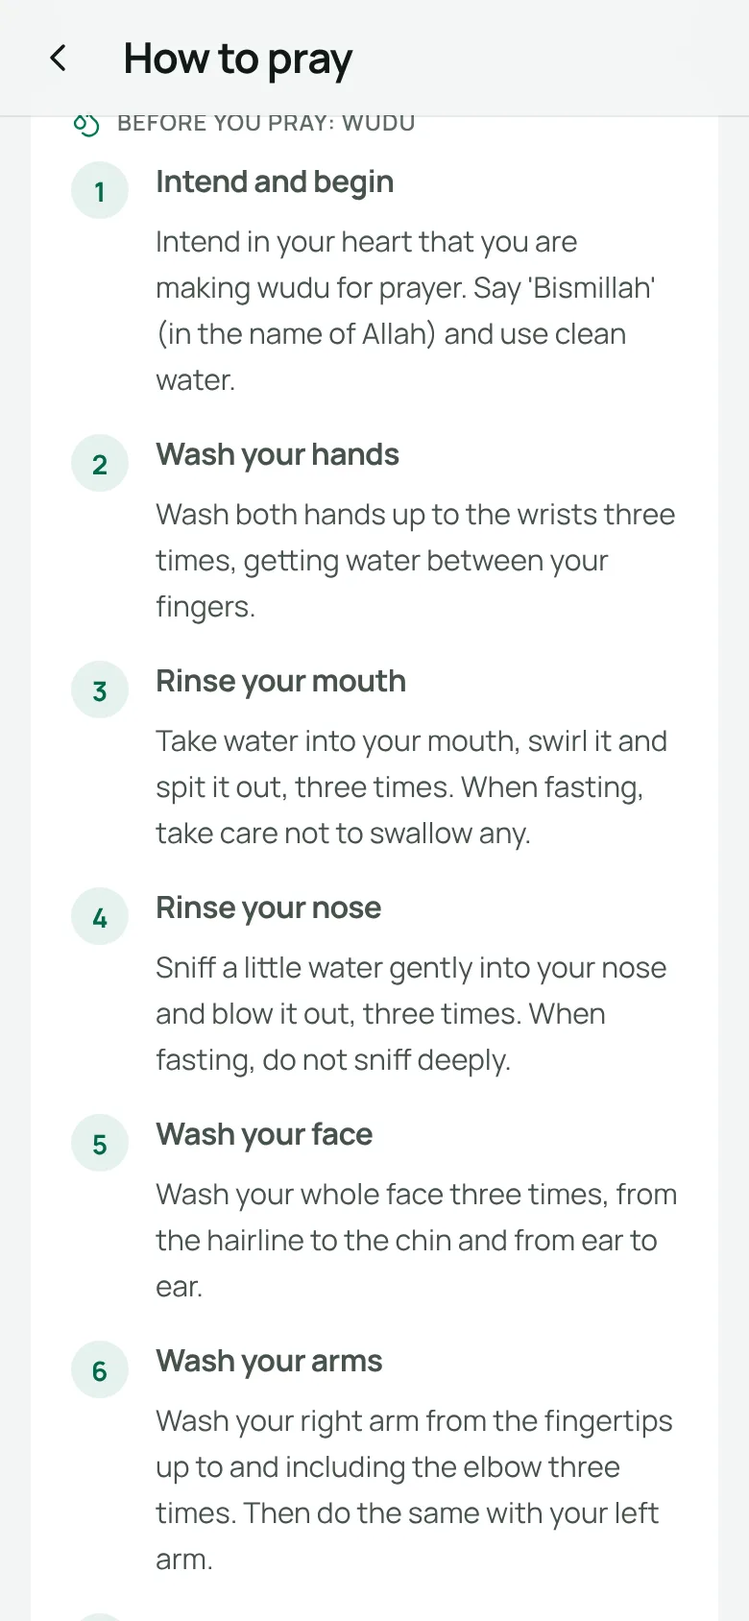
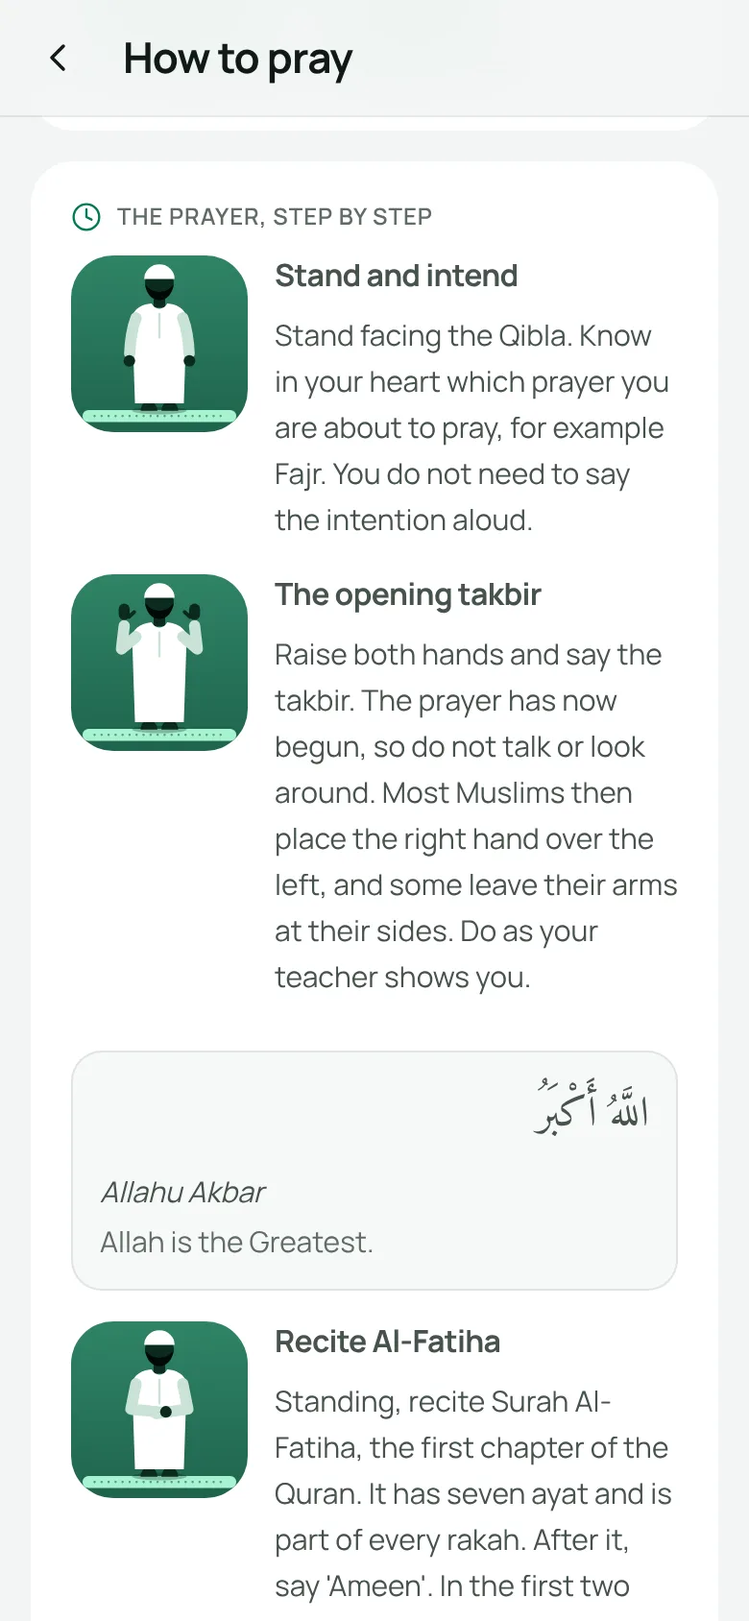
How to pray: a drawn picture of a man in each position replaces the stick figures
Each of the twelve steps now shows a man in a thobe and cap in that position: standing,
the opening takbir, reciting with the right hand over the left, bowing, standing up,
prostrating, sitting, the tashahhud with the forefinger pointing, and the salam. The
pictures are drawn as plain shapes in the app's greens (no face is drawn), keep one
size and scale, work in light and dark, and are not mirrored in right-to-left languages
so that right stays right. The picture sits beside what to do; the words to say now get
the full width underneath. The product page's screenshots and list follow.

Claude-Session: https://claude.ai/code/session_01NK5Fw2fU79LqByGdNvRg5Q

diff --git a/js/start-data.js b/js/start-data.js
@@ -1,3 +1,3 @@
 /* Generated by scripts/build-start.js from content/start.json. Do not edit by hand. */
 window.RS = window.RS || {};
-RS.startData = {"guide":[{"id":"what","icon":"moon","n":3,"refs":[{"ref":"Quran 2:183","url":"https://quran.com/2/183"},{"ref":"Quran 2:185","url":"https://quran.com/2/185"},{"ref":"Bukhari 8","url":"https://sunnah.com/bukhari:8"},{"ref":"Bukhari 1901","url":"https://sunnah.com/bukhari:1901"}]},{"id":"who","icon":"users","n":4,"refs":[{"ref":"Quran 2:184","url":"https://quran.com/2/184"},{"ref":"Muslim 121","url":"https://sunnah.com/muslim:121"},{"ref":"Muslim 335","url":"https://sunnah.com/muslim:335"},{"ref":"Tirmidhi 715","url":"https://sunnah.com/tirmidhi:715"},{"ref":"Bukhari 4505","url":"https://sunnah.com/bukhari:4505"},{"ref":"Abu Dawud 4403","url":"https://sunnah.com/abudawud:4403"},{"ref":"Bukhari 1960","url":"https://sunnah.com/bukhari:1960"}]},{"id":"day","icon":"sunrise","n":4,"refs":[{"ref":"Bukhari 1923","url":"https://sunnah.com/bukhari:1923"},{"ref":"Abu Dawud 2454","url":"https://sunnah.com/abudawud:2454"},{"ref":"Quran 2:187","url":"https://quran.com/2/187"},{"ref":"Bukhari 1957","url":"https://sunnah.com/bukhari:1957"},{"ref":"Abu Dawud 2356","url":"https://sunnah.com/abudawud:2356"},{"ref":"Abu Dawud 2357","url":"https://sunnah.com/abudawud:2357"}]},{"id":"breaks","icon":"shield","n":5,"refs":[{"ref":"Quran 2:187","url":"https://quran.com/2/187"},{"ref":"Tirmidhi 720","url":"https://sunnah.com/tirmidhi:720"},{"ref":"Muslim 335","url":"https://sunnah.com/muslim:335"},{"ref":"Bukhari 1933","url":"https://sunnah.com/bukhari:1933"},{"ref":"Bukhari 1926","url":"https://sunnah.com/bukhari:1926"},{"ref":"Abu Dawud 2385","url":"https://sunnah.com/abudawud:2385"},{"ref":"Tirmidhi 788","url":"https://sunnah.com/tirmidhi:788"},{"ref":"Bukhari 1903","url":"https://sunnah.com/bukhari:1903"}]},{"id":"missed","icon":"calendar-check","n":3,"refs":[{"ref":"Quran 2:184","url":"https://quran.com/2/184"},{"ref":"Bukhari 1950","url":"https://sunnah.com/bukhari:1950"},{"ref":"Bukhari 1936","url":"https://sunnah.com/bukhari:1936"}]},{"id":"prayers","icon":"clock","n":3,"refs":[{"ref":"Bukhari 6502","url":"https://sunnah.com/bukhari:6502"},{"ref":"Bukhari 37","url":"https://sunnah.com/bukhari:37"},{"ref":"Tirmidhi 806","url":"https://sunnah.com/tirmidhi:806"}]},{"id":"quran","icon":"book-open","n":3,"refs":[{"ref":"Quran 2:185","url":"https://quran.com/2/185"},{"ref":"Bukhari 6","url":"https://sunnah.com/bukhari:6"},{"ref":"Bukhari 4937","url":"https://sunnah.com/bukhari:4937"}]},{"id":"last-ten","icon":"moon-star","n":4,"refs":[{"ref":"Bukhari 2024","url":"https://sunnah.com/bukhari:2024"},{"ref":"Quran 97:3","url":"https://quran.com/97/3"},{"ref":"Bukhari 2017","url":"https://sunnah.com/bukhari:2017"},{"ref":"Bukhari 1901","url":"https://sunnah.com/bukhari:1901"},{"ref":"Ibn Majah 3850","url":"https://sunnah.com/ibnmajah:3850"}]},{"id":"charity","icon":"hand-heart","n":3,"refs":[{"ref":"Bukhari 6","url":"https://sunnah.com/bukhari:6"},{"ref":"Tirmidhi 807","url":"https://sunnah.com/tirmidhi:807"},{"ref":"Bukhari 1503","url":"https://sunnah.com/bukhari:1503"},{"ref":"Bukhari 1990","url":"https://sunnah.com/bukhari:1990"},{"ref":"Bukhari 953","url":"https://sunnah.com/bukhari:953"},{"ref":"Quran 2:185","url":"https://quran.com/2/185"}]},{"id":"family","icon":"heart","n":4,"refs":[{"ref":"Quran 31:15","url":"https://quran.com/31/15"},{"ref":"Bukhari 2620","url":"https://sunnah.com/bukhari:2620"},{"ref":"Bukhari 1904","url":"https://sunnah.com/bukhari:1904"}]},{"id":"mosque","icon":"landmark","n":4,"refs":[{"ref":"Bukhari 444","url":"https://sunnah.com/bukhari:444"},{"ref":"Tirmidhi 807","url":"https://sunnah.com/tirmidhi:807"}]},{"id":"gentle","icon":"sprout","n":3,"refs":[{"ref":"Bukhari 6464","url":"https://sunnah.com/bukhari:6464"},{"ref":"Bukhari 39","url":"https://sunnah.com/bukhari:39"},{"ref":"Quran 2:286","url":"https://quran.com/2/286"},{"ref":"Quran 2:185","url":"https://quran.com/2/185"}]}],"pray":{"intro":4,"wudu":["w1","w2","w3","w4","w5","w6","w7","w8","w9"],"wuduRefs":[{"ref":"Quran 5:6","url":"https://quran.com/5/6"},{"ref":"Bukhari 159","url":"https://sunnah.com/bukhari:159"},{"ref":"Muslim 226","url":"https://sunnah.com/muslim:226"},{"ref":"Tirmidhi 36","url":"https://sunnah.com/tirmidhi:36"},{"ref":"Tirmidhi 788","url":"https://sunnah.com/tirmidhi:788"},{"ref":"Bukhari 135","url":"https://sunnah.com/bukhari:135"}],"steps":[{"id":"p1","pose":"stand","arabic":"","translit":""},{"id":"p2","pose":"hands","arabic":"اللَّهُ أَكْبَرُ","translit":"Allahu Akbar"},{"id":"p3","pose":"stand","arabic":"بِسْمِ اللَّهِ الرَّحْمَٰنِ الرَّحِيمِ  الْحَمْدُ لِلَّهِ رَبِّ الْعَالَمِينَ  الرَّحْمَٰنِ الرَّحِيمِ  مَالِكِ يَوْمِ الدِّينِ  إِيَّاكَ نَعْبُدُ وَإِيَّاكَ نَسْتَعِينُ  اهْدِنَا الصِّرَاطَ الْمُسْتَقِيمَ  صِرَاطَ الَّذِينَ أَنْعَمْتَ عَلَيْهِمْ غَيْرِ الْمَغْضُوبِ عَلَيْهِمْ وَلَا الضَّالِّينَ","translit":"Bismillahir-Rahmanir-Rahim. Al-hamdu lillahi Rabbil-'alamin. Ar-Rahmanir-Rahim. Maliki yawmid-din. Iyyaka na'budu wa iyyaka nasta'in. Ihdinas-siratal-mustaqim. Siratal-ladhina an'amta 'alayhim, ghayril-maghdubi 'alayhim wa lad-dallin."},{"id":"p4","pose":"ruku","arabic":"سُبْحَانَ رَبِّيَ الْعَظِيمِ","translit":"Subhana Rabbiyal-'Azim"},{"id":"p5","pose":"rise","arabic":"سَمِعَ اللَّهُ لِمَنْ حَمِدَهُ، رَبَّنَا لَكَ الْحَمْدُ","translit":"Sami'Allahu liman hamidah. Rabbana lakal-hamd."},{"id":"p6","pose":"sujood","arabic":"سُبْحَانَ رَبِّيَ الْأَعْلَى","translit":"Subhana Rabbiyal-A'la"},{"id":"p7","pose":"sit","arabic":"رَبِّ اغْفِرْ لِي","translit":"Rabbighfir li"},{"id":"p8","pose":"sujood","arabic":"سُبْحَانَ رَبِّيَ الْأَعْلَى","translit":"Subhana Rabbiyal-A'la"},{"id":"p9","pose":"stand","arabic":"","translit":""},{"id":"p10","pose":"sit","arabic":"التَّحِيَّاتُ لِلَّهِ وَالصَّلَوَاتُ وَالطَّيِّبَاتُ، السَّلَامُ عَلَيْكَ أَيُّهَا النَّبِيُّ وَرَحْمَةُ اللَّهِ وَبَرَكَاتُهُ، السَّلَامُ عَلَيْنَا وَعَلَى عِبَادِ اللَّهِ الصَّالِحِينَ، أَشْهَدُ أَنْ لَا إِلَهَ إِلَّا اللَّهُ، وَأَشْهَدُ أَنَّ مُحَمَّدًا عَبْدُهُ وَرَسُولُهُ","translit":"At-tahiyyatu lillahi was-salawatu wat-tayyibat. As-salamu 'alayka ayyuhan-Nabiyyu wa rahmatullahi wa barakatuh. As-salamu 'alayna wa 'ala 'ibadillahis-salihin. Ash-hadu an la ilaha illallah, wa ash-hadu anna Muhammadan 'abduhu wa rasuluh."},{"id":"p11","pose":"sit","arabic":"اللَّهُمَّ صَلِّ عَلَى مُحَمَّدٍ وَعَلَى آلِ مُحَمَّدٍ، كَمَا صَلَّيْتَ عَلَى إِبْرَاهِيمَ وَعَلَى آلِ إِبْرَاهِيمَ، إِنَّكَ حَمِيدٌ مَجِيدٌ، اللَّهُمَّ بَارِكْ عَلَى مُحَمَّدٍ وَعَلَى آلِ مُحَمَّدٍ، كَمَا بَارَكْتَ عَلَى إِبْرَاهِيمَ وَعَلَى آلِ إِبْرَاهِيمَ، إِنَّكَ حَمِيدٌ مَجِيدٌ","translit":"Allahumma salli 'ala Muhammadin wa 'ala ali Muhammad, kama sallayta 'ala Ibrahima wa 'ala ali Ibrahim, innaka Hamidun Majid. Allahumma barik 'ala Muhammadin wa 'ala ali Muhammad, kama barakta 'ala Ibrahima wa 'ala ali Ibrahim, innaka Hamidun Majid."},{"id":"p12","pose":"salam","arabic":"السَّلَامُ عَلَيْكُمْ وَرَحْمَةُ اللَّهِ","translit":"As-salamu 'alaykum wa rahmatullah"}],"refs":[{"ref":"Bukhari 8","url":"https://sunnah.com/bukhari:8"},{"ref":"Quran 4:103","url":"https://quran.com/4/103"},{"ref":"Quran 2:144","url":"https://quran.com/2/144"},{"ref":"Bukhari 631","url":"https://sunnah.com/bukhari:631"},{"ref":"Muslim 335","url":"https://sunnah.com/muslim:335"},{"ref":"Bukhari 757","url":"https://sunnah.com/bukhari:757"},{"ref":"Quran 1:1-7","url":"https://quran.com/1/1-7"},{"ref":"Bukhari 756","url":"https://sunnah.com/bukhari:756"},{"ref":"Bukhari 789","url":"https://sunnah.com/bukhari:789"},{"ref":"Muslim 772","url":"https://sunnah.com/muslim:772"},{"ref":"Bukhari 812","url":"https://sunnah.com/bukhari:812"},{"ref":"Ibn Majah 897","url":"https://sunnah.com/ibnmajah:897"},{"ref":"Bukhari 776","url":"https://sunnah.com/bukhari:776"},{"ref":"Bukhari 831","url":"https://sunnah.com/bukhari:831"},{"ref":"Bukhari 3370","url":"https://sunnah.com/bukhari:3370"},{"ref":"Abu Dawud 996","url":"https://sunnah.com/abudawud:996"}]},"terms":["suhoor","iftar","salah","fajr","dhuhr","asr","maghrib","isha","wudu","rakah","qibla","ruku","sujood","sunnah","witr","tarawih","tahajjud","duha","dua","dhikr","adhkar","istighfar","salawat","tadabbur","khatm","juz","taqwa","ikhlas","riya","muhasaba","gheebah","sadaqah","zakat-al-fitr","qada","fidya","hayd","laylatul-qadr","itikaf","hilal","eid-al-fitr"],"stories":[{"n":1,"ref":"Quran 2:30-37","url":"https://quran.com/2/30-37"},{"n":2,"ref":"Bukhari 2363","url":"https://sunnah.com/bukhari:2363"},{"n":3,"ref":"Quran 11:36-44","url":"https://quran.com/11/36-44"},{"n":4,"ref":"Muslim 2626; Bukhari 3035; Bukhari 2989","url":"https://sunnah.com/muslim:2626"},{"n":5,"ref":"Quran 21:57-70","url":"https://quran.com/21/57-70"},{"n":6,"ref":"Bukhari 3364","url":"https://sunnah.com/bukhari:3364"},{"n":7,"ref":"Quran 2:127-128","url":"https://quran.com/2/127-128"},{"n":8,"ref":"Bukhari 7","url":"https://sunnah.com/bukhari:7"},{"n":9,"ref":"Quran 12:4-21","url":"https://quran.com/12/4-21"},{"n":10,"ref":"Quran 12:54-58; Quran 12:88-100","url":"https://quran.com/12/88-100"},{"n":11,"ref":"Bukhari 5971","url":"https://sunnah.com/bukhari:5971"},{"n":12,"ref":"Quran 28:7-13","url":"https://quran.com/28/7-13"},{"n":13,"ref":"Quran 26:52-67","url":"https://quran.com/26/52-67"},{"n":14,"ref":"Bukhari 1461; Quran 3:92","url":"https://sunnah.com/bukhari:1461"},{"n":15,"ref":"Quran 21:87-88; Quran 37:139-148","url":"https://quran.com/21/87-88"},{"n":16,"ref":"Bukhari 3798; Muslim 2054; Quran 59:9","url":"https://sunnah.com/bukhari:3798"},{"n":17,"ref":"Quran 21:83-84; Quran 38:41-44","url":"https://quran.com/38/41-44"},{"n":18,"ref":"Bukhari 3231","url":"https://sunnah.com/bukhari:3231"},{"n":19,"ref":"Quran 27:16-19","url":"https://quran.com/27/16-19"},{"n":20,"ref":"Quran 18:9-25","url":"https://quran.com/18/9-25"},{"n":21,"ref":"Quran 31:12-19","url":"https://quran.com/31/12-19"},{"n":22,"ref":"Quran 3:35-37","url":"https://quran.com/3/35-37"},{"n":23,"ref":"Quran 19:21; Quran 19:27-33","url":"https://quran.com/19/27-33"},{"n":24,"ref":"Bukhari 6038; Bukhari 2768","url":"https://sunnah.com/bukhari:6038"},{"n":25,"ref":"Bukhari 3; Quran 96:1-5","url":"https://sunnah.com/bukhari:3"},{"n":26,"ref":"Bukhari 6","url":"https://sunnah.com/bukhari:6"},{"n":27,"ref":"Quran 97:1-5; Bukhari 2017","url":"https://quran.com/97/1-5"},{"n":28,"ref":"Bukhari 4837","url":"https://sunnah.com/bukhari:4837"},{"n":29,"ref":"Bukhari 652; Muslim 1914","url":"https://sunnah.com/bukhari:652"},{"n":30,"ref":"Quran 2:185; Bukhari 953; Bukhari 986","url":"https://quran.com/2/185"}],"easyTf":["tf002","tf003","tf005","tf009","tf010","tf011","tf-fast-01","tf-fast-03","tf-fast-05","tf-fast-08","tf-fast-11","tf018","tf024","tf-salah-08","tf-salah-09","tf-salah-15","tf025","tf029","tf031","tf033","tf-quran-03","tf-quran-04","tf-quran-10","tf-quran-11","tf-quran-12","tf035","tf036","tf041","tf042","tf043","tf046","tf047","tf053","tf054","tf-give-09","tf055","tf056","tf057","tf062","tf-give-02","tf-give-08","tf-give-10","tf-hist-01","tf-hist-02","tf-hist-04","tf-prep-11","tf-prep-12","tf-prep-13"]};
+RS.startData = {"guide":[{"id":"what","icon":"moon","n":3,"refs":[{"ref":"Quran 2:183","url":"https://quran.com/2/183"},{"ref":"Quran 2:185","url":"https://quran.com/2/185"},{"ref":"Bukhari 8","url":"https://sunnah.com/bukhari:8"},{"ref":"Bukhari 1901","url":"https://sunnah.com/bukhari:1901"}]},{"id":"who","icon":"users","n":4,"refs":[{"ref":"Quran 2:184","url":"https://quran.com/2/184"},{"ref":"Muslim 121","url":"https://sunnah.com/muslim:121"},{"ref":"Muslim 335","url":"https://sunnah.com/muslim:335"},{"ref":"Tirmidhi 715","url":"https://sunnah.com/tirmidhi:715"},{"ref":"Bukhari 4505","url":"https://sunnah.com/bukhari:4505"},{"ref":"Abu Dawud 4403","url":"https://sunnah.com/abudawud:4403"},{"ref":"Bukhari 1960","url":"https://sunnah.com/bukhari:1960"}]},{"id":"day","icon":"sunrise","n":4,"refs":[{"ref":"Bukhari 1923","url":"https://sunnah.com/bukhari:1923"},{"ref":"Abu Dawud 2454","url":"https://sunnah.com/abudawud:2454"},{"ref":"Quran 2:187","url":"https://quran.com/2/187"},{"ref":"Bukhari 1957","url":"https://sunnah.com/bukhari:1957"},{"ref":"Abu Dawud 2356","url":"https://sunnah.com/abudawud:2356"},{"ref":"Abu Dawud 2357","url":"https://sunnah.com/abudawud:2357"}]},{"id":"breaks","icon":"shield","n":5,"refs":[{"ref":"Quran 2:187","url":"https://quran.com/2/187"},{"ref":"Tirmidhi 720","url":"https://sunnah.com/tirmidhi:720"},{"ref":"Muslim 335","url":"https://sunnah.com/muslim:335"},{"ref":"Bukhari 1933","url":"https://sunnah.com/bukhari:1933"},{"ref":"Bukhari 1926","url":"https://sunnah.com/bukhari:1926"},{"ref":"Abu Dawud 2385","url":"https://sunnah.com/abudawud:2385"},{"ref":"Tirmidhi 788","url":"https://sunnah.com/tirmidhi:788"},{"ref":"Bukhari 1903","url":"https://sunnah.com/bukhari:1903"}]},{"id":"missed","icon":"calendar-check","n":3,"refs":[{"ref":"Quran 2:184","url":"https://quran.com/2/184"},{"ref":"Bukhari 1950","url":"https://sunnah.com/bukhari:1950"},{"ref":"Bukhari 1936","url":"https://sunnah.com/bukhari:1936"}]},{"id":"prayers","icon":"clock","n":3,"refs":[{"ref":"Bukhari 6502","url":"https://sunnah.com/bukhari:6502"},{"ref":"Bukhari 37","url":"https://sunnah.com/bukhari:37"},{"ref":"Tirmidhi 806","url":"https://sunnah.com/tirmidhi:806"}]},{"id":"quran","icon":"book-open","n":3,"refs":[{"ref":"Quran 2:185","url":"https://quran.com/2/185"},{"ref":"Bukhari 6","url":"https://sunnah.com/bukhari:6"},{"ref":"Bukhari 4937","url":"https://sunnah.com/bukhari:4937"}]},{"id":"last-ten","icon":"moon-star","n":4,"refs":[{"ref":"Bukhari 2024","url":"https://sunnah.com/bukhari:2024"},{"ref":"Quran 97:3","url":"https://quran.com/97/3"},{"ref":"Bukhari 2017","url":"https://sunnah.com/bukhari:2017"},{"ref":"Bukhari 1901","url":"https://sunnah.com/bukhari:1901"},{"ref":"Ibn Majah 3850","url":"https://sunnah.com/ibnmajah:3850"}]},{"id":"charity","icon":"hand-heart","n":3,"refs":[{"ref":"Bukhari 6","url":"https://sunnah.com/bukhari:6"},{"ref":"Tirmidhi 807","url":"https://sunnah.com/tirmidhi:807"},{"ref":"Bukhari 1503","url":"https://sunnah.com/bukhari:1503"},{"ref":"Bukhari 1990","url":"https://sunnah.com/bukhari:1990"},{"ref":"Bukhari 953","url":"https://sunnah.com/bukhari:953"},{"ref":"Quran 2:185","url":"https://quran.com/2/185"}]},{"id":"family","icon":"heart","n":4,"refs":[{"ref":"Quran 31:15","url":"https://quran.com/31/15"},{"ref":"Bukhari 2620","url":"https://sunnah.com/bukhari:2620"},{"ref":"Bukhari 1904","url":"https://sunnah.com/bukhari:1904"}]},{"id":"mosque","icon":"landmark","n":4,"refs":[{"ref":"Bukhari 444","url":"https://sunnah.com/bukhari:444"},{"ref":"Tirmidhi 807","url":"https://sunnah.com/tirmidhi:807"}]},{"id":"gentle","icon":"sprout","n":3,"refs":[{"ref":"Bukhari 6464","url":"https://sunnah.com/bukhari:6464"},{"ref":"Bukhari 39","url":"https://sunnah.com/bukhari:39"},{"ref":"Quran 2:286","url":"https://quran.com/2/286"},{"ref":"Quran 2:185","url":"https://quran.com/2/185"}]}],"pray":{"intro":4,"wudu":["w1","w2","w3","w4","w5","w6","w7","w8","w9"],"wuduRefs":[{"ref":"Quran 5:6","url":"https://quran.com/5/6"},{"ref":"Bukhari 159","url":"https://sunnah.com/bukhari:159"},{"ref":"Muslim 226","url":"https://sunnah.com/muslim:226"},{"ref":"Tirmidhi 36","url":"https://sunnah.com/tirmidhi:36"},{"ref":"Tirmidhi 788","url":"https://sunnah.com/tirmidhi:788"},{"ref":"Bukhari 135","url":"https://sunnah.com/bukhari:135"}],"steps":[{"id":"p1","pose":"stand","arabic":"","translit":""},{"id":"p2","pose":"hands","arabic":"اللَّهُ أَكْبَرُ","translit":"Allahu Akbar"},{"id":"p3","pose":"recite","arabic":"بِسْمِ اللَّهِ الرَّحْمَٰنِ الرَّحِيمِ  الْحَمْدُ لِلَّهِ رَبِّ الْعَالَمِينَ  الرَّحْمَٰنِ الرَّحِيمِ  مَالِكِ يَوْمِ الدِّينِ  إِيَّاكَ نَعْبُدُ وَإِيَّاكَ نَسْتَعِينُ  اهْدِنَا الصِّرَاطَ الْمُسْتَقِيمَ  صِرَاطَ الَّذِينَ أَنْعَمْتَ عَلَيْهِمْ غَيْرِ الْمَغْضُوبِ عَلَيْهِمْ وَلَا الضَّالِّينَ","translit":"Bismillahir-Rahmanir-Rahim. Al-hamdu lillahi Rabbil-'alamin. Ar-Rahmanir-Rahim. Maliki yawmid-din. Iyyaka na'budu wa iyyaka nasta'in. Ihdinas-siratal-mustaqim. Siratal-ladhina an'amta 'alayhim, ghayril-maghdubi 'alayhim wa lad-dallin."},{"id":"p4","pose":"ruku","arabic":"سُبْحَانَ رَبِّيَ الْعَظِيمِ","translit":"Subhana Rabbiyal-'Azim"},{"id":"p5","pose":"rise","arabic":"سَمِعَ اللَّهُ لِمَنْ حَمِدَهُ، رَبَّنَا لَكَ الْحَمْدُ","translit":"Sami'Allahu liman hamidah. Rabbana lakal-hamd."},{"id":"p6","pose":"sujood","arabic":"سُبْحَانَ رَبِّيَ الْأَعْلَى","translit":"Subhana Rabbiyal-A'la"},{"id":"p7","pose":"sit","arabic":"رَبِّ اغْفِرْ لِي","translit":"Rabbighfir li"},{"id":"p8","pose":"sujood","arabic":"سُبْحَانَ رَبِّيَ الْأَعْلَى","translit":"Subhana Rabbiyal-A'la"},{"id":"p9","pose":"recite","arabic":"","translit":""},{"id":"p10","pose":"tashahhud","arabic":"التَّحِيَّاتُ لِلَّهِ وَالصَّلَوَاتُ وَالطَّيِّبَاتُ، السَّلَامُ عَلَيْكَ أَيُّهَا النَّبِيُّ وَرَحْمَةُ اللَّهِ وَبَرَكَاتُهُ، السَّلَامُ عَلَيْنَا وَعَلَى عِبَادِ اللَّهِ الصَّالِحِينَ، أَشْهَدُ أَنْ لَا إِلَهَ إِلَّا اللَّهُ، وَأَشْهَدُ أَنَّ مُحَمَّدًا عَبْدُهُ وَرَسُولُهُ","translit":"At-tahiyyatu lillahi was-salawatu wat-tayyibat. As-salamu 'alayka ayyuhan-Nabiyyu wa rahmatullahi wa barakatuh. As-salamu 'alayna wa 'ala 'ibadillahis-salihin. Ash-hadu an la ilaha illallah, wa ash-hadu anna Muhammadan 'abduhu wa rasuluh."},{"id":"p11","pose":"sit","arabic":"اللَّهُمَّ صَلِّ عَلَى مُحَمَّدٍ وَعَلَى آلِ مُحَمَّدٍ، كَمَا صَلَّيْتَ عَلَى إِبْرَاهِيمَ وَعَلَى آلِ إِبْرَاهِيمَ، إِنَّكَ حَمِيدٌ مَجِيدٌ، اللَّهُمَّ بَارِكْ عَلَى مُحَمَّدٍ وَعَلَى آلِ مُحَمَّدٍ، كَمَا بَارَكْتَ عَلَى إِبْرَاهِيمَ وَعَلَى آلِ إِبْرَاهِيمَ، إِنَّكَ حَمِيدٌ مَجِيدٌ","translit":"Allahumma salli 'ala Muhammadin wa 'ala ali Muhammad, kama sallayta 'ala Ibrahima wa 'ala ali Ibrahim, innaka Hamidun Majid. Allahumma barik 'ala Muhammadin wa 'ala ali Muhammad, kama barakta 'ala Ibrahima wa 'ala ali Ibrahim, innaka Hamidun Majid."},{"id":"p12","pose":"salam","arabic":"السَّلَامُ عَلَيْكُمْ وَرَحْمَةُ اللَّهِ","translit":"As-salamu 'alaykum wa rahmatullah"}],"refs":[{"ref":"Bukhari 8","url":"https://sunnah.com/bukhari:8"},{"ref":"Quran 4:103","url":"https://quran.com/4/103"},{"ref":"Quran 2:144","url":"https://quran.com/2/144"},{"ref":"Bukhari 631","url":"https://sunnah.com/bukhari:631"},{"ref":"Muslim 335","url":"https://sunnah.com/muslim:335"},{"ref":"Bukhari 757","url":"https://sunnah.com/bukhari:757"},{"ref":"Quran 1:1-7","url":"https://quran.com/1/1-7"},{"ref":"Bukhari 756","url":"https://sunnah.com/bukhari:756"},{"ref":"Bukhari 789","url":"https://sunnah.com/bukhari:789"},{"ref":"Muslim 772","url":"https://sunnah.com/muslim:772"},{"ref":"Bukhari 812","url":"https://sunnah.com/bukhari:812"},{"ref":"Ibn Majah 897","url":"https://sunnah.com/ibnmajah:897"},{"ref":"Bukhari 776","url":"https://sunnah.com/bukhari:776"},{"ref":"Bukhari 831","url":"https://sunnah.com/bukhari:831"},{"ref":"Bukhari 3370","url":"https://sunnah.com/bukhari:3370"},{"ref":"Abu Dawud 996","url":"https://sunnah.com/abudawud:996"}]},"terms":["suhoor","iftar","salah","fajr","dhuhr","asr","maghrib","isha","wudu","rakah","qibla","ruku","sujood","sunnah","witr","tarawih","tahajjud","duha","dua","dhikr","adhkar","istighfar","salawat","tadabbur","khatm","juz","taqwa","ikhlas","riya","muhasaba","gheebah","sadaqah","zakat-al-fitr","qada","fidya","hayd","laylatul-qadr","itikaf","hilal","eid-al-fitr"],"stories":[{"n":1,"ref":"Quran 2:30-37","url":"https://quran.com/2/30-37"},{"n":2,"ref":"Bukhari 2363","url":"https://sunnah.com/bukhari:2363"},{"n":3,"ref":"Quran 11:36-44","url":"https://quran.com/11/36-44"},{"n":4,"ref":"Muslim 2626; Bukhari 3035; Bukhari 2989","url":"https://sunnah.com/muslim:2626"},{"n":5,"ref":"Quran 21:57-70","url":"https://quran.com/21/57-70"},{"n":6,"ref":"Bukhari 3364","url":"https://sunnah.com/bukhari:3364"},{"n":7,"ref":"Quran 2:127-128","url":"https://quran.com/2/127-128"},{"n":8,"ref":"Bukhari 7","url":"https://sunnah.com/bukhari:7"},{"n":9,"ref":"Quran 12:4-21","url":"https://quran.com/12/4-21"},{"n":10,"ref":"Quran 12:54-58; Quran 12:88-100","url":"https://quran.com/12/88-100"},{"n":11,"ref":"Bukhari 5971","url":"https://sunnah.com/bukhari:5971"},{"n":12,"ref":"Quran 28:7-13","url":"https://quran.com/28/7-13"},{"n":13,"ref":"Quran 26:52-67","url":"https://quran.com/26/52-67"},{"n":14,"ref":"Bukhari 1461; Quran 3:92","url":"https://sunnah.com/bukhari:1461"},{"n":15,"ref":"Quran 21:87-88; Quran 37:139-148","url":"https://quran.com/21/87-88"},{"n":16,"ref":"Bukhari 3798; Muslim 2054; Quran 59:9","url":"https://sunnah.com/bukhari:3798"},{"n":17,"ref":"Quran 21:83-84; Quran 38:41-44","url":"https://quran.com/38/41-44"},{"n":18,"ref":"Bukhari 3231","url":"https://sunnah.com/bukhari:3231"},{"n":19,"ref":"Quran 27:16-19","url":"https://quran.com/27/16-19"},{"n":20,"ref":"Quran 18:9-25","url":"https://quran.com/18/9-25"},{"n":21,"ref":"Quran 31:12-19","url":"https://quran.com/31/12-19"},{"n":22,"ref":"Quran 3:35-37","url":"https://quran.com/3/35-37"},{"n":23,"ref":"Quran 19:21; Quran 19:27-33","url":"https://quran.com/19/27-33"},{"n":24,"ref":"Bukhari 6038; Bukhari 2768","url":"https://sunnah.com/bukhari:6038"},{"n":25,"ref":"Bukhari 3; Quran 96:1-5","url":"https://sunnah.com/bukhari:3"},{"n":26,"ref":"Bukhari 6","url":"https://sunnah.com/bukhari:6"},{"n":27,"ref":"Quran 97:1-5; Bukhari 2017","url":"https://quran.com/97/1-5"},{"n":28,"ref":"Bukhari 4837","url":"https://sunnah.com/bukhari:4837"},{"n":29,"ref":"Bukhari 652; Muslim 1914","url":"https://sunnah.com/bukhari:652"},{"n":30,"ref":"Quran 2:185; Bukhari 953; Bukhari 986","url":"https://quran.com/2/185"}],"easyTf":["tf002","tf003","tf005","tf009","tf010","tf011","tf-fast-01","tf-fast-03","tf-fast-05","tf-fast-08","tf-fast-11","tf018","tf024","tf-salah-08","tf-salah-09","tf-salah-15","tf025","tf029","tf031","tf033","tf-quran-03","tf-quran-04","tf-quran-10","tf-quran-11","tf-quran-12","tf035","tf036","tf041","tf042","tf043","tf046","tf047","tf053","tf054","tf-give-09","tf055","tf056","tf057","tf062","tf-give-02","tf-give-08","tf-give-10","tf-hist-01","tf-hist-02","tf-hist-04","tf-prep-11","tf-prep-12","tf-prep-13"]};

diff --git a/js/start.js b/js/start.js
@@ -2,7 +2,7 @@
    Ramadan Strivers v8 — start.js. "Start here": the basics for people who are new to Islam (and older children).
    - My first Ramadan: short chapters (what Ramadan is, who fasts, what breaks the fast, fasting among non-Muslim
      family, a first visit to a mosque ...). Chapters read are remembered on this device.
-   - How to pray: wudu and the prayer step by step, with a pictogram of each position.
+   - How to pray: wudu and the prayer step by step, with a drawn picture of a man in each position.
    - Words explained: the Arabic terms the app uses; a term can also be opened from a deed in the checklist.
    - Ask a question: the server's AI helper for basics, when the server has it; never a ruling.
    Structure (ids, icons, references, Arabic) is in js/start-data.js (RS.startData), generated with the English text
@@ -102,16 +102,72 @@
   });
 
   /* ------------------------------------------------------------------ how to pray */
-  var POSE = {
-    stand: '<circle cx="32" cy="10" r="5"/><path d="M32 15v25M32 40l-5 18M32 40l5 18M25 27h14"/>',
-    hands: '<circle cx="32" cy="10" r="5"/><path d="M32 15v25M32 40l-5 18M32 40l5 18M32 21l-9-9M32 21l9-9"/>',
-    ruku: '<circle cx="15" cy="27" r="5"/><path d="M20 29h21M41 29v29M27 29v15"/>',
-    rise: '<circle cx="32" cy="10" r="5"/><path d="M32 15v25M32 40l-5 18M32 40l5 18M32 21l-6 15M32 21l6 15"/>',
-    sujood: '<circle cx="13" cy="50" r="5"/><path d="M18 48l19-12M37 36l4 19M41 55l14 2M21 47l-4 10"/><path d="M6 58h52" opacity=".35"/>',
-    sit: '<circle cx="29" cy="23" r="5"/><path d="M29 28l2 19M31 47l15 2M46 49l-12 6M30 36l11 9"/><path d="M6 58h52" opacity=".35"/>',
-    salam: '<circle cx="29" cy="23" r="5"/><path d="M29 28l2 19M31 47l15 2M46 49l-12 6M30 36l11 9M40 20l5 3-5 3"/><path d="M6 58h52" opacity=".35"/>'
-  };
-  function pose(k) { return '<svg class="st-pose" viewBox="0 0 64 64" aria-hidden="true" focusable="false">' + (POSE[k] || POSE.stand) + '</svg>'; }
+  // The pictures: a man in a thobe and cap in each position of the prayer, drawn as plain shapes. No face is drawn.
+  // Each shape takes its colour from a class that css/tools.css sets: r thobe · arm sleeve · f fold · s skin ·
+  // fin finger · h hair and beard · c cap · m mat · m2 its stripe · sh shadow · a movement.
+  // He is drawn on a 120 by 120 field with the ground at y = 97 (pose() then enlarges the scene to fill the tile)
+  // and keeps one size in every picture: head 8.4 in radius, shoulder to hip 26, hip to knee 16, knee to ankle 15.
+  // In the side views he faces right, so the side we see is his right: the hand that points in the tashahhud is
+  // his right hand, and in the salam his head is turned to his right. For that reason the pictures are never
+  // mirrored, in right-to-left languages either.
+  var ART = (function () {
+    function shadow(cx, rx) { return '<ellipse class="sh" cx="' + cx + '" cy="97.3" rx="' + rx + '" ry="2.2"/>'; }
+    function hand(x, y) { return '<circle class="s" cx="' + x + '" cy="' + y + '" r="3.4"/>'; }
+    function arm(d) { return '<path class="arm" d="' + d + '"/>'; }
+    var CAP = '<path class="c" d="M-8.9-2.4a8.9 8.5 0 0 1 17.8 0z"/></g>';
+    // the head from the front: the beard round the chin, the cap on top
+    function front(cx, cy) {
+      return '<g transform="translate(' + cx + ' ' + cy + ')"><circle class="s" r="8.4"/><path class="h" d="M-8.3.8c.5 5.5 4 9.3 8.3 9.3s7.8-3.8 8.3-9.3c-2 3-4.8 4.4-8.3 4.4s-6.3-1.4-8.3-4.4z"/>' + CAP;
+    }
+    // the head from the side, looking right: the beard under the chin and the hair at the
+    // nape tell which way. turn is in degrees clockwise (90 looks at the ground), flip looks left
+    function side(cx, cy, turn, flip) {
+      return '<g transform="translate(' + cx + ' ' + cy + ')' + (flip ? ' scale(-1 1)' : '') + (turn ? ' rotate(' + turn + ')' : '') + '"><circle class="s" r="8.4"/>' +
+        '<path class="h" d="M-8.3-1.6c-.6 3.8.5 7 2.9 8.9c-.8-3.2-.7-6.2.3-8.9z"/><path class="h" d="M-1.8 2c.2 4.9 3 8 6.7 7.7c3.1-.3 4.7-3.6 3.4-7.9c-2.7 2.4-6.7 2.7-10.1.2z"/>' + CAP;
+    }
+    // standing, from the front: feet, neck, thobe and its placket
+    var FRONT = '<path class="s" d="M49 97.4c0-3.3 2-5.4 4.9-5.4s4.9 2.1 4.9 5.4zM61.2 97.4c0-3.3 2-5.4 4.9-5.4s4.9 2.1 4.9 5.4z"/><path class="s" d="M56.6 29h6.8v8h-6.8z"/>' +
+      '<path class="r" d="M55.4 34.6c-5.8.5-10.2 3.1-11.4 7.9l1.7 50.5h28.6l1.7-50.5c-1.2-4.8-5.6-7.4-11.4-7.9c-1 2-2.6 3-4.6 3s-3.6-1-4.6-3z"/><path class="f" d="M60 40.5v14"/>';
+    // standing, from the side
+    var SIDE = '<path class="s" d="M51.4 97.4c0-3.2 1.8-5.2 4.7-5.2h4.4c4 0 7.3 2.2 7.3 5.2z"/><path class="s" d="M55.3 29h6.6v8h-6.6z"/>' +
+      '<path class="r" d="M50 93V44.4c0-5 3.5-8.8 8.1-8.8s8 3.8 8 8.8l.5 48.6z"/>';
+    // sitting on the heels, from the side: the right foot stays upright behind him
+    var SIT = '<path class="s" d="M36.6 97.4c-1.5-3.4-1.2-7.2.8-9.9l4.8 1.6c-1.2 2.9-1 5.7.4 8.3z"/><path class="s" d="M52.7 50.8h6.6v8h-6.6z"/>' +
+      '<path class="r" d="M43.8 97.4c-2.8-5-1.9-11.2 2.8-15.3V66.4c0-5 3.5-8.8 8.1-8.8s8 3.8 8 8.8l.4 13.4l9.7 4.7c4 1.8 5.9 6 5.4 12.9z"/>';
+    var LAP = arm('M55 64.5l2.6 12.5l8.4 7.4');
+    return {
+      // standing and facing the qibla, arms at the sides
+      stand: shadow(60, 16) + FRONT + arm('M46.3 43c-2.3 6.2-3.4 13.2-3.7 21') + arm('M73.7 43c2.3 6.2 3.4 13.2 3.7 21') + hand(42.4, 68.2) + hand(77.6, 68.2) + front(60, 22.6),
+      // the opening takbir: both hands raised beside the head, palms to the front
+      hands: shadow(60, 16) + FRONT + arm('M46.3 43l-8.5 7.2l1.6-13.6') + arm('M73.7 43l8.5 7.2l-1.6-13.6') +
+        '<rect class="s" x="36.2" y="23.6" width="6.4" height="9.6" rx="3.2"/><rect class="s" x="77.4" y="23.6" width="6.4" height="9.6" rx="3.2"/><path class="fin" d="M42.2 31.4l3-2.8M77.8 31.4l-3-2.8"/>' + front(60, 22.6),
+      // standing for the recitation, the right hand over the left
+      recite: shadow(60, 16) + FRONT + arm('M73.7 43l3 14.8L58.5 60.4') + arm('M46.3 43l-3 14.8L60.6 59.6') + hand(63.8, 59.4) + front(60, 22.6),
+      // bowing: the back level, the hands on the knees
+      ruku: shadow(47, 13) + '<path class="s" d="M39.2 97.4c0-3.2 1.8-5.2 4.7-5.2h4.4c4 0 7.3 2.2 7.3 5.2z"/><path class="s" d="M73 59.4h8v6.4h-8z"/>' +
+        '<path class="r" d="M38.4 93V63.2c0-5.2 3.9-9.2 9.2-9.2h22.2c4.7 0 8.2 3.6 8.2 8.2s-3.5 8.2-8.2 8.2H55.2c-1 0-1.6.6-1.6 1.6L53.4 93z"/>' +
+        arm('M69.5 63.4L53.2 77.4') + hand(50.6, 79.6) + side(85, 62.6, 78),
+      // standing up straight again after bowing
+      rise: shadow(59, 12) + SIDE + arm('M58.2 43.5l.5 20.5') + hand(58.8, 68.2) + side(58.8, 22.6, 8),
+      // prostrating: forehead and nose, both palms, both knees and the toes on the ground
+      sujood: shadow(58, 34) + '<path class="s" d="M27.6 97.4c-1.8-3.8-1.5-8 .7-11l5.2 1.8c-1.4 3.2-1.2 6.3.5 9.2z"/><path class="s" d="M72 84.8l8 1.4l-1 6.6l-8-1.4z"/>' +
+        '<path class="r" d="M32.8 97.4c-.9-9.4 2-21.4 9.7-25.9c3.5-2 7.9-1.8 11 .2l19 9.3c4 2 5.5 6 4 9.5c-.7 1.7-2 2.9-3.9 3.3l-13.6-6.3l-1.4 9.9z"/>' +
+        arm('M70 87.4l-3.2 4.8l4.2 2.6') + '<ellipse class="s" cx="73.4" cy="95.6" rx="3.6" ry="2"/>' + side(87, 89, 100),
+      // sitting between the two prostrations, hands on the thighs
+      sit: shadow(60, 22) + SIT + LAP + hand(68.6, 86.4) + side(56.2, 44.4, 8),
+      // sitting for the tashahhud, the right forefinger pointing
+      tashahhud: shadow(60, 22) + SIT + LAP + '<path class="fin" d="M70 85.8l6.2-2.8"/>' + hand(68.6, 86.4) + side(56.2, 44.4, 8),
+      // the salam: the head turned to the right, then to the left
+      salam: shadow(60, 30) + '<path class="s" d="M56.6 50.8h6.8v8h-6.8z"/>' +
+        '<path class="r" d="M55.4 56.4c-5.8.5-10.2 3.1-11.4 7.9l-2.3 16.2c-5.7 3.3-8.8 9.3-8.4 16.9h53.4c.4-7.6-2.7-13.6-8.4-16.9l-2.3-16.2c-1.2-4.8-5.6-7.4-11.4-7.9c-1 2-2.6 3-4.6 3s-3.6-1-4.6-3z"/>' +
+        '<path class="f" d="M60 84v13"/>' + arm('M46.3 64.8l-3.7 13.7l5.2 8.3') + arm('M73.7 64.8l3.7 13.7l-5.2 8.3') + hand(49.2, 89.4) + hand(70.8, 89.4) + side(60, 44.4, 0, true) +
+        '<path class="a" d="M43.5 31.5a18.5 18.5 0 0 1 33 0M42.7 26.3l.8 5.2l5-1.6M77.3 26.3l-.8 5.2l-5-1.6"/>'
+    };
+  })();
+  function pose(k) {
+    return '<svg class="st-art" viewBox="0 0 120 120" aria-hidden="true" focusable="false"><g transform="matrix(1.16 0 0 1.16 -9.6 -7.5)">' +
+      '<rect class="m" x="15" y="97" width="90" height="7" rx="3.5"/><path class="m2" d="M22 100.5h76"/>' + (ART[k] || ART.stand) + '</g></svg>';
+  }
   function renderPray(view) {
     RS.topbar({ title: t('st.pray.title'), back: 'learn/start' });
     var p = D().pray, h = [];
@@ -124,7 +180,9 @@
       if (s.arabic) words += ui.arabic(s.arabic, { cls: 'st-ar' });
       if (s.translit) words += '<p class="st-tr" lang="ar-Latn" dir="ltr">' + esc(s.translit) + '</p>';
       if (RS.has('st.p.' + s.id + '.m') && t('st.p.' + s.id + '.m')) words += '<p class="st-mean">' + esc(t('st.p.' + s.id + '.m')) + '</p>';
-      return '<li class="st-step is-pose">' + pose(s.pose) + '<div><h3 class="st-step-t">' + esc(t('st.p.' + s.id + '.t')) + '</h3><p class="st-p">' + esc(t('st.p.' + s.id + '.x')) + '</p>' + words + '</div></li>';
+      // the picture beside what to do; what to say gets the full width underneath
+      return '<li class="st-step is-pose">' + pose(s.pose) + '<div><h3 class="st-step-t">' + esc(t('st.p.' + s.id + '.t')) + '</h3><p class="st-p">' + esc(t('st.p.' + s.id + '.x')) + '</p></div>' +
+        (words ? '<div class="st-say">' + words + '</div>' : '') + '</li>';
     }).join('') + '</ol>' + refsHtml(p.refs) }));
     h.push(ui.note(t('st.pr.note'), { icon: 'info', tone: 'plain' }));
     view.innerHTML = h.join('');

diff --git a/product/index.html b/product/index.html
@@ -858,7 +858,7 @@ footer { padding: 36px 0 60px; color: var(--ink-3); font-size: 14px; }
     </div>
 
     <div class="feat flip">
-      <div class="feat-media deep reveal"><div class="ph"><div class="ph-screen"><img class="shot" loading="lazy" src="/product/img/start.webp" alt="New to Islam: start here. My first Ramadan, how to pray, words explained" width="390" height="844"></div></div><div class="ph"><div class="ph-screen"><img class="shot" loading="lazy" src="/product/img/pray.webp" alt="How to pray: a drawing of the position, the Arabic words, how to say them and what they mean" width="390" height="844"></div></div></div>
+      <div class="feat-media deep reveal"><div class="ph"><div class="ph-screen"><img class="shot" loading="lazy" src="/product/img/start.webp" alt="New to Islam: start here. My first Ramadan, how to pray, words explained" width="390" height="844"></div></div><div class="ph"><div class="ph-screen"><img class="shot" loading="lazy" src="/product/img/pray.webp" alt="How to pray: a picture of a man in each position, the Arabic words, how to say them and what they mean" width="390" height="844"></div></div></div>
       <div class="reveal d1">
         <div class="kick-row"><div class="kick">6 · New to Islam</div><a class="see-live" href="#demo" data-demo='{"level":"adult","go":"learn/start"}'><svg class="i"><use href="#i-play"/></svg>See it live</a></div>
         <h2>A gentle first Ramadan.</h2>
@@ -1174,7 +1174,7 @@ footer { padding: 36px 0 60px; color: var(--ink-3); font-size: 14px; }
         <ul>
           <li class="fi"><b>My first Ramadan</b>Twelve short chapters in plain words, with references.</li>
           <li class="fi"><b>Wudu, step by step</b>Nine steps, in order, in plain words.</li>
-          <li class="fi"><b>How to pray</b>Twelve steps with a drawing of each position.</li>
+          <li class="fi"><b>How to pray</b><span data-n="praySteps">12</span> steps, each with a picture of a man in that position.</li>
           <li class="fi"><b>The words of the prayer</b>The Arabic, how to pronounce it, and what it means.</li>
           <li class="fi"><b>Words explained</b>Forty terms, from suhoor to Laylatul Qadr, with a search.</li>
           <li class="fi"><b>Tap to understand</b>Unfamiliar words in the checklist open their explanation.</li>
@@ -1274,12 +1274,12 @@ footer { padding: 36px 0 60px; color: var(--ink-3); font-size: 14px; }
     <div class="head reveal sub-h" id="new"><div class="kick">Just added</div><h2>It keeps getting better.</h2><p class="lead">The newest additions, most recent first. This list grows each time the app does.</p></div>
     <ol class="news">
       <!-- new:start -->
-      <li class="reveal"><time datetime="2026-11-15">15 November 2026</time><h3>A live demo on this page</h3><p>Try the app itself on a sample day of Ramadan, with a class competition already running, before you open it for yourself. <a href="#demo">Try it</a></p></li>
-      <li class="reveal d1"><time datetime="2026-11-14">14 November 2026</time><h3>Leagues for schools and mosques</h3><p>Organisations ranked side by side by the average points of the people taking part, so a small school can beat a large one.</p></li>
-      <li class="reveal d2"><time datetime="2026-11-14">14 November 2026</time><h3>Helpers, weekly awards and sign-up sheets</h3><p>Organisers can add teachers and helpers, hand out awards each week, challenge another organisation head to head and gather volunteers for iftar.</p></li>
-      <li class="reveal"><time datetime="2026-11-14">14 November 2026</time><h3>More for children and families</h3><p>A profile for each child, a night sky that fills with stars, <span data-n="stories">30</span> short stories, a sticker chart and a certificate to print.</p></li>
-      <li class="reveal d1"><time datetime="2026-11-14">14 November 2026</time><h3>Start here, for new Muslims</h3><p>My first Ramadan in <span data-n="chapters">12</span> short chapters, how to pray in <span data-n="praySteps">12</span> steps, and <span data-n="terms">40</span> words explained in plain language.</p></li>
-      <li class="reveal d2"><time datetime="2026-11-14">14 November 2026</time><h3>Prayer times for any city</h3><p>Search for any city in the world, choose from <span data-n="methods">23</span> calculation methods and match the timetable of your mosque.</p></li>
+      <li class="reveal"><time datetime="2026-11-15">15 November 2026</time><h3>A picture for every step of the prayer</h3><p>How to pray now shows a man in each position, from the opening takbir to the salam, beside the words to say.</p></li>
+      <li class="reveal d1"><time datetime="2026-11-15">15 November 2026</time><h3>A live demo on this page</h3><p>Try the app itself on a sample day of Ramadan, with a class competition already running, before you open it for yourself. <a href="#demo">Try it</a></p></li>
+      <li class="reveal d2"><time datetime="2026-11-14">14 November 2026</time><h3>Leagues for schools and mosques</h3><p>Organisations ranked side by side by the average points of the people taking part, so a small school can beat a large one.</p></li>
+      <li class="reveal"><time datetime="2026-11-14">14 November 2026</time><h3>Helpers, weekly awards and sign-up sheets</h3><p>Organisers can add teachers and helpers, hand out awards each week, challenge another organisation head to head and gather volunteers for iftar.</p></li>
+      <li class="reveal d1"><time datetime="2026-11-14">14 November 2026</time><h3>More for children and families</h3><p>A profile for each child, a night sky that fills with stars, <span data-n="stories">30</span> short stories, a sticker chart and a certificate to print.</p></li>
+      <li class="reveal d2"><time datetime="2026-11-14">14 November 2026</time><h3>Start here, for new Muslims</h3><p>My first Ramadan in <span data-n="chapters">12</span> short chapters, how to pray in <span data-n="praySteps">12</span> steps, and <span data-n="terms">40</span> words explained in plain language.</p></li>
       <!-- new:end -->
     </ol>
   </div>

diff --git a/css/tools.css b/css/tools.css
@@ -72,8 +72,29 @@
 .st-step > div { min-width: 0; flex: 1 1 auto; }
 .st-step-n { flex: none; width: 30px; height: 30px; border-radius: 50%; display: grid; place-items: center; font-weight: 700; font-size: 14px; background: var(--accent-soft); color: var(--accent-ink); }
 .st-step-t { font-size: 16px; font-weight: 700; }
-.st-pose { flex: none; width: 56px; height: 56px; padding: 4px; border-radius: 16px; background: var(--accent-soft); color: var(--accent-ink); fill: none; stroke: currentColor; stroke-width: 2.6; stroke-linecap: round; stroke-linejoin: round; }
-.st-pose circle { fill: currentColor; stroke: none; }
+/* How to pray: a drawn picture of a man in each position (js/start.js draws the shapes, the colours are set here).
+   One look in both themes: a white thobe and a dark figure on green, a little deeper in the dark theme. */
+.st-step.is-pose { display: grid; grid-template-columns: auto minmax(0, 1fr); column-gap: 14px; }
+.st-say { grid-column: 1 / -1; margin-top: 12px; padding: 12px 14px; border-radius: var(--r-block); background: var(--card-2); border: 1px solid var(--hairline); }
+.st-say > :first-child { margin-top: 0; }
+.st-art { display: block; width: 92px; height: 92px; border-radius: 22px; background: var(--art-bg);
+  --art-bg: linear-gradient(180deg, #2F8466, #1F644C); --art-robe: #FFFFFF; --art-fold: #C9E2D6; --art-skin: #0A2A1E; --art-hair: #020A07;
+  --art-mat: #A7F3D0; --art-mat-2: rgba(5, 46, 34, .45); --art-shadow: rgba(3, 16, 11, .26); --art-move: #D1FAE5; }
+:root[data-theme="dark"] .st-art { --art-bg: linear-gradient(180deg, #25664F, #1A4E3D); --art-robe: #F4FBF7; --art-skin: #06140E; }
+@media (prefers-color-scheme: dark) { :root:not([data-theme="light"]) .st-art { --art-bg: linear-gradient(180deg, #25664F, #1A4E3D); --art-robe: #F4FBF7; --art-skin: #06140E; } }
+@media (max-width: 350px) { .st-art { width: 76px; height: 76px; border-radius: 18px; } .st-step.is-pose { column-gap: 12px; } }
+@media (min-width: 520px) { .st-art { width: 112px; height: 112px; border-radius: 26px; } .st-step.is-pose { column-gap: 16px; } }
+.st-art .r, .st-art .c { fill: var(--art-robe); }
+.st-art .s { fill: var(--art-skin); }
+.st-art .h { fill: var(--art-hair); }
+.st-art .m { fill: var(--art-mat); }
+.st-art .sh { fill: var(--art-shadow); }
+.st-art .arm, .st-art .f, .st-art .fin, .st-art .m2, .st-art .a { fill: none; stroke-linecap: round; stroke-linejoin: round; }
+.st-art .arm { stroke: var(--art-fold); stroke-width: 6.6; }
+.st-art .f { stroke: var(--art-fold); stroke-width: 1.3; }
+.st-art .fin { stroke: var(--art-skin); stroke-width: 2.2; }
+.st-art .m2 { stroke: var(--art-mat-2); stroke-width: 1.3; stroke-dasharray: .1 4; }
+.st-art .a { stroke: var(--art-move); stroke-width: 1.9; }
 .st-ar { margin-top: 10px; }
 .st-tr { font-style: italic; color: var(--ink-2, var(--ink)); margin-top: 6px; }
 .st-mean { color: var(--ink-3); margin-top: 4px; }

diff --git a/scripts/build-start.js b/scripts/build-start.js
@@ -13,7 +13,7 @@ const ROOT = path.join(__dirname, '..');
 const src = JSON.parse(fs.readFileSync(path.join(ROOT, 'content', 'start.json'), 'utf8'));
 const ui = JSON.parse(fs.readFileSync(path.join(ROOT, 'content', 'start-ui.json'), 'utf8'));
 global.window = {}; eval(fs.readFileSync(path.join(ROOT, 'js', 'icons.js'), 'utf8'));
-const ICONS = window.RS.icons, POSES = ['stand', 'hands', 'ruku', 'rise', 'sujood', 'sit', 'salam'];
+const ICONS = window.RS.icons, POSES = ['stand', 'hands', 'recite', 'ruku', 'rise', 'sujood', 'sit', 'tashahhud', 'salam'];   // the pictures js/start.js can draw
 const EMOJI = /[\u{1F300}-\u{1FAFF}\u{2600}-\u{27BF}\u{1F000}-\u{1F2FF}\u{2B50}\u{2B55}]/u;
 const errs = [], text = Object.assign({}, ui), seen = new Set();
 const put = (k, v) => { v = String(v == null ? '' : v).trim(); if (!v) errs.push('empty text: ' + k); if (EMOJI.test(v)) errs.push('emoji in ' + k); if (/—/.test(v)) errs.push('em dash in ' + k); text[k] = v; };

diff --git a/scripts/product-shots.js b/scripts/product-shots.js
@@ -317,7 +317,7 @@ async function shoot(name, route, o) {
   await shoot('daily', 'learn/daily', {});
   await shoot('start', 'learn/start', {});
   await shoot('read', 'learn/start/read?c=what', {});
-  await shoot('pray', 'learn/start/pray', { top: '.st-pose, .st-steps, [class*="st-pose"]' });
+  await shoot('pray', 'learn/start/pray', { top: '.card:has(.st-art)' });      // from the card with the prayer's steps and their pictures
   await shoot('words', 'learn/start/words', {});
   await shoot('kids', 'today', { settings: { level: 'kids' }, top: '#kd-sky' });
   await shoot('kids-story', 'today', { settings: { level: 'kids' }, top: '#kd-story, .kd-story, [id*="story"]' });

diff --git a/sw.js b/sw.js
@@ -9,7 +9,7 @@
    - /api/*, /s/* share pages, /poster/*: never cached.
    Shipping: bump VERSION, and ASSET_V together with the ?v= query strings in index.html (ICON_V with the icon URLs
    in index.html and manifest.webmanifest when the app icon changes). */
-const VERSION = 'rs-v8.0.0-11';   // -3: drops caches whose '/' entry a visit to privacy.html had replaced
+const VERSION = 'rs-v8.0.0-12';   // -3: drops caches whose '/' entry a visit to privacy.html had replaced
 const ASSET_V = '8.0.0';
 const ICON_V = '8';            // icons are cached as immutable: a new icon needs a new ?v= (index.html, manifest, push)
 const SHELL_FILES = [
